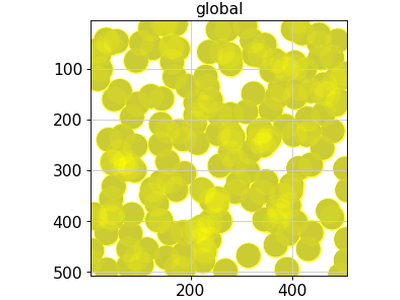
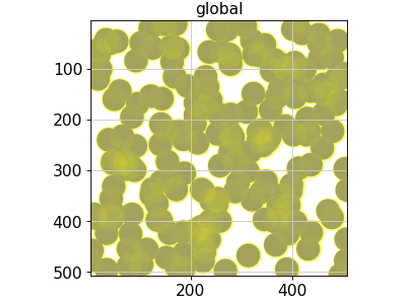
Fix fill_alpha and outline_alpha being ignored in datashader render path

Pull request: Fix fill_alpha and outline_alpha being ignored in datashader render path
## Summary

Three related bugs all surface as `fill_alpha` / `outline_alpha` being silently ignored or wrong:

1. **Datashader `fill_alpha` ignored.** `_ds_shade_continuous` and `_ds_shade_categorical` passed the user alpha into `ds.tf.shade(min_alpha=...)`. `min_alpha` is a *floor* on the alpha of non-empty pixels, not a scaling factor — so for shapes (every covered pixel maps to full coverage) the result is always alpha=255 regardless of `fill_alpha`.
2. **Datashader `outline_alpha` ignored.** `_render_ds_outlines` had the identical bug.
3. **`_set_outline` silently remapped `outline_alpha=0.0` to `1.0`.** The arm `outline_alpha and outline_alpha == 0.0` short-circuited to `False` whenever `outline_alpha` was the literal `0.0` (falsy in Python). When a user paired `outline_alpha=0.0` with an explicit `outline_color`, the 'invisible outline' branch was unreachable and the value got reassigned to `(1.0, 1.0)` further down.

Because the matplotlib → datashader switch is silent at >10k shapes, large datasets diverged from small ones with no warning.

## Fix

- Add `_apply_user_alpha(result, alpha)` in `_datashader.py` that post-multiplies the alpha channel of the shade result by the user-supplied alpha. Same pattern already used by `_apply_cmap_alpha_to_datashader_result` (issue #376). Applied in `_ds_shade_continuous` (both `shaded` and `nan_shaded`), `_ds_shade_categorical`, and `_render_ds_outlines`. Carries over to the points datashader path automatically.
[…]

diff --git a/tests/pl/test_render_shapes.py b/tests/pl/test_render_shapes.py
@@ -1228,6 +1228,68 @@ def test_datashader_alpha_not_applied_twice(sdata_blobs: SpatialData):
     plt.close(fig)
 
 
[email redacted](
+    ("fill_alpha", "expected_max"),
+    [
+        (0.0, 0),
+        (0.3, 76),
+        (0.5, 127),
+        (1.0, 255),
+    ],
+)
+def test_datashader_respects_fill_alpha(sdata_blobs: SpatialData, fill_alpha: float, expected_max: int):
+    """fill_alpha must scale the rendered alpha channel linearly on the datashader path (#617)."""
+    fig, ax = plt.subplots()
+    sdata_blobs.pl.render_shapes(
+        element="blobs_polygons",
+        method="datashader",
+        fill_alpha=fill_alpha,
+    ).pl.show(ax=ax)
+    fig.canvas.draw()
+
+    axes_images = [c for c in ax.get_children() if isinstance(c, matplotlib.image.AxesImage)]
+    assert axes_images
+    rgba = axes_images[0].get_array()
+    assert rgba.ndim == 3 and rgba.shape[-1] == 4
+    assert int(rgba[..., 3].max()) == expected_max
+    plt.close(fig)
+
+
[email redacted](
+    ("outline_alpha", "expected_max"),
+    [
+        (0.0, None),
+        (0.3, 76),
+        (0.5, 127),
+        (1.0, 255),
+    ],
+)
+def test_datashader_respects_outline_alpha(sdata_blobs: SpatialData, outline_alpha: float, expected_max: int | None):
+    """outline_alpha must scale the outline image's alpha; alpha=0 must skip rendering entirely (#617)."""
+    fig, ax = plt.subplots()
+    sdata_blobs.pl.render_shapes(
+        element="blobs_polygons",
+        method="datashader",
+        fill_alpha=1.0,
+        outline_alpha=outline_alpha,
+        outline_color="red",
+    ).pl.show(ax=ax)
+    fig.canvas.draw()
+
+    axes_images = [c for c in ax.get_children() if isinstance(c, matplotlib.image.AxesImage)]
+    outline_imgs = [
+        img
+        for img in axes_images
+        if (arr := img.get_array()).ndim == 3 and arr.shape[-1] == 4 and arr[..., 0].max() > arr[..., 1].max()
+    ]
+    if expected_max is None:
+        assert not outline_imgs
+    else:
+        assert outline_imgs
+        assert int(outline_imgs[0].get_array()[..., 3].max()) == expected_max
+    plt.close(fig)
+
+
 def test_render_shapes_color_with_conflicting_index_name():
     """render_shapes(color=...) must not crash when obs.index.name matches an existing column.
 

diff --git a/src/spatialdata_plot/pl/_datashader.py b/src/spatialdata_plot/pl/_datashader.py
@@ -43,6 +43,21 @@ _DS_NAN_CATEGORY = "ds_nan"
 # ---------------------------------------------------------------------------
 
 
+def _apply_user_alpha(result: ds.tf.Image | np.ndarray, alpha: float) -> ds.tf.Image | np.ndarray:
+    """Scale the alpha channel of a datashader shade result by ``alpha``.
+
+    ``ds.tf.shade(min_alpha=...)`` is a floor, not a scale, so user alpha
+    must be applied post-hoc. See #617.
+    """
+    if alpha >= 1.0 or result is None:
+        return result
+    arr = result if isinstance(result, np.ndarray) else result.to_numpy().base
+    if arr is None or arr.ndim != 3 or arr.shape[-1] != 4:
+        return result
+    arr[..., 3] = (arr[..., 3].astype(np.float32) * alpha).astype(np.uint8)
+    return result
+
+
 def _coerce_categorical_source(series: pd.Series | dd.Series) -> pd.Categorical:
     """Return a ``pd.Categorical`` from a pandas or dask Series."""
     if isinstance(series, dd.Series):
@@ -241,6 +256,7 @@ def _ds_shade_continuous(
         span=color_span,
         clip=norm.clip,
     )
+    shaded = _apply_user_alpha(shaded, alpha)
 
     nan_shaded = None
     if nan_agg is not None:
@@ -251,6 +267,7 @@ def _ds_shade_continuous(
             # only shapes (no spread) pass min_alpha for NaN shading
             shade_kwargs["min_alpha"] = _convert_alpha_to_datashader_range(alpha)
         nan_shaded = ds.tf.shade(nan_agg, **shade_kwargs)
+        nan_shaded = _apply_user_alpha(nan_shaded, alpha)
 
     return shaded, nan_shaded, reduction_bounds
 
@@ -270,12 +287,13 @@ def _ds_shade_categorical(
             ds_cmap = _hex_no_alpha(ds_cmap)
 
     agg_to_shade = ds.tf.spread(agg, px=spread_px) if spread_px is not None else agg
-    return _datashader_map_aggregate_to_color(
+    shaded = _datashader_map_aggregate_to_color(
         agg_to_shade,
         cmap=ds_cmap,
         color_key=color_key,
         min_alpha=_convert_alpha_to_datashader_range(alpha),
     )
+    return _apply_user_alpha(shaded, alpha)
 
 
 # ---------------------------------------------------------------------------
@@ -338,6 +356,7 @@ def _render_ds_outlines(
                 min_alpha=_convert_alpha_to_datashader_range(alpha),
                 how="linear",
             )
+            shaded = _apply_user_alpha(shaded, alpha)
             rgba, trans = _create_image_from_datashader_result(shaded, factor, ax)
             _ax_show_and_transform(rgba, trans, ax, zorder=render_params.zorder, extent=extent)
 

diff --git a/tests/pl/test_utils.py b/tests/pl/test_utils.py
@@ -8,10 +8,12 @@ import xarray as xr
 from spatialdata import SpatialData
 
 import spatialdata_plot
+from spatialdata_plot.pl.render_params import Color
 from spatialdata_plot.pl.utils import (
     _apply_cmap_alpha_to_datashader_result,
     _datashader_map_aggregate_to_color,
     _get_subplots,
+    _set_outline,
     set_zero_in_cmap_to_transparent,
 )
 from tests.conftest import DPI, PlotTester, PlotTesterMeta
@@ -162,6 +164,22 @@ def test_is_color_like(color_result: tuple[ColorLike, bool]):
     color, result = color_result
 
     assert spatialdata_plot.pl.utils._is_color_like(color) == result
+
+
[email redacted](
+    ("outline_alpha", "outline_color", "expected"),
+    [
+        (0.0, Color("#ff0000"), (0.0, 0.0)),
+        (0, Color("#ff0000"), (0.0, 0.0)),
+        ((0.0, 0.0), Color("#ff0000"), (0.0, 0.0)),
+        (0.5, Color("#ff0000"), (0.5, 0.0)),
+        (1.0, Color("#ff0000"), (1.0, 0.0)),
+    ],
+)
+def test_set_outline_respects_zero_alpha(outline_alpha, outline_color, expected):
+    """outline_alpha=0 must yield (0.0, 0.0) even when outline_color is set (#617 follow-up)."""
+    alpha, _ = _set_outline(outline_alpha=outline_alpha, outline_width=None, outline_color=outline_color)
+    assert alpha == expected
 
 
 class TestCmapAlphaDatashader:

diff --git a/src/spatialdata_plot/pl/utils.py b/src/spatialdata_plot/pl/utils.py
@@ -681,7 +681,7 @@ def _set_outline(
     """
     # A) User doesn't want to see outlines
     if (
-        (outline_alpha and outline_alpha == 0.0)
+        outline_alpha == 0.0
         or (isinstance(outline_alpha, tuple) and np.all(np.array(outline_alpha) == 0.0))
         or not (outline_alpha or outline_width or outline_color)
     ):